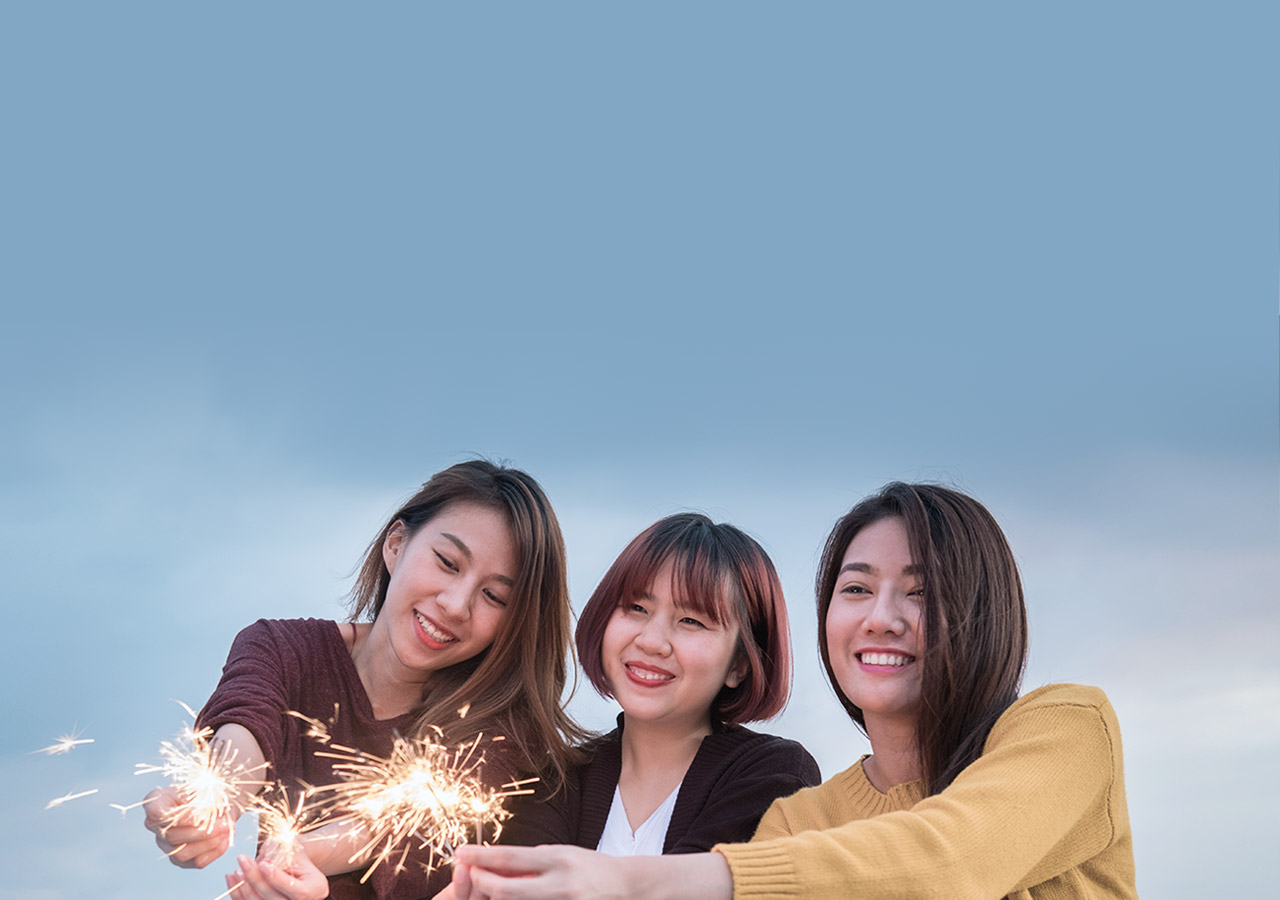
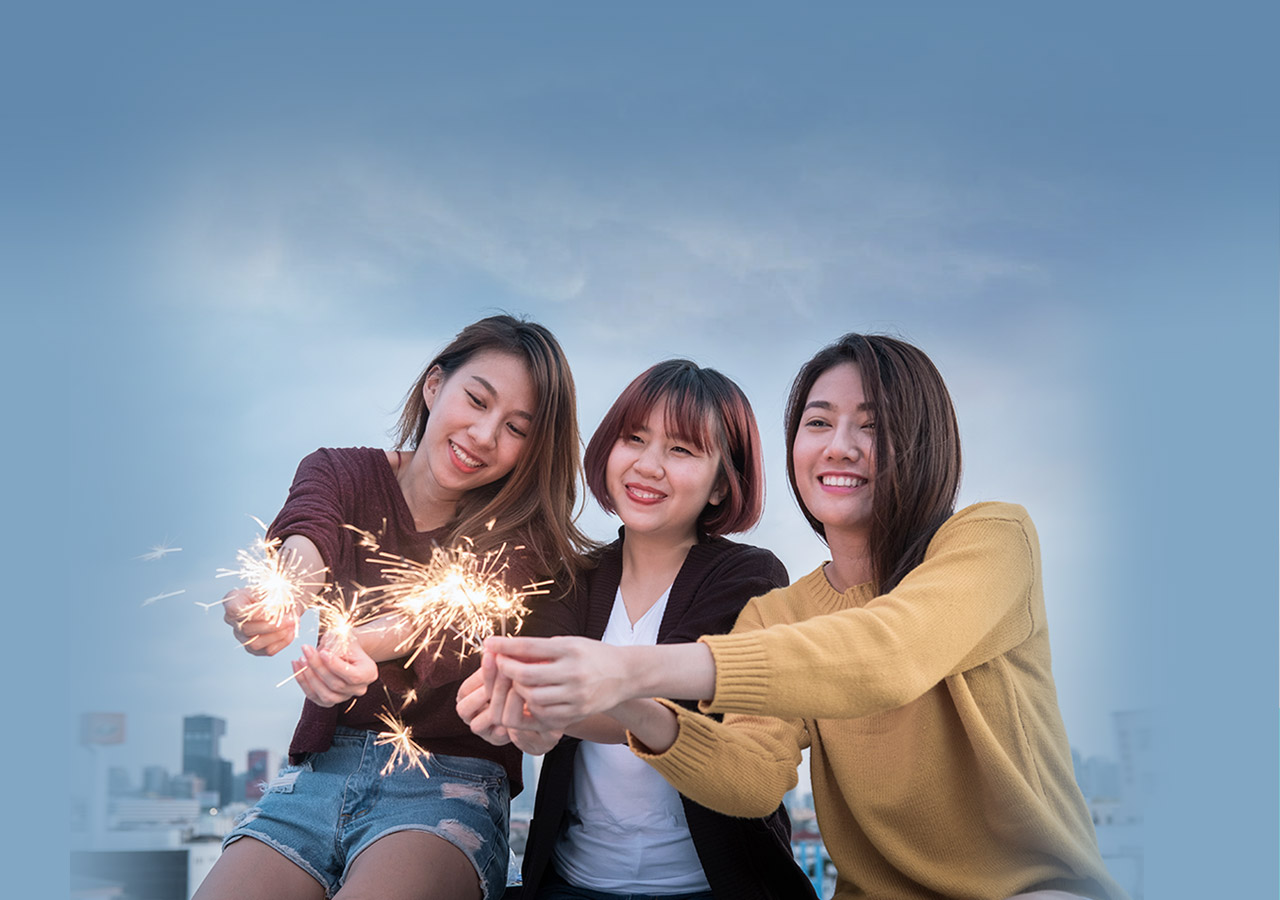
r

diff --git a/triple_perks_rewarding_events/index.html b/triple_perks_rewarding_events/index.html
@@ -55,13 +55,13 @@
 						<div data-aos="fade-up" data-aos-delay="400" data-aos-duration="2000" class="KV-header">TRIPLE PERKS <br>
 							REWARDING EVENTS. MADE HERE.</div>
 						<div data-aos="fade-up" data-aos-delay="800" data-aos-duration="2000" class="KV-header-desc">Earn rewards & get
-							more points for your next meeting or events.</div>
+							more points for your next meeting or event.</div>
 
 					</header>
 				</div>
 			</section>
 
-			<section class="component sub-header page-container--gutters" data-aos="fade-up" data-aos-duration="2000">
+			<section class="component sub-header page-container--gutters" data-aos="fade-up" data-aos-duration="2000" data-aos-offset="-400">
 				<div class="KV-subheader">REWARDING EVENTS. <span class="d-inline d-md-none"><br></span>MADE HERE.</div>
 				<div class="KV-subheader-desc">
 					<p class="mt-0">Plan an unforgettable meeting or event at participating hotels of Marriott Rewards®, <br>
@@ -87,7 +87,7 @@
 								<img src="images/icon_01.svg" alt="5% off master-billedrooms" />
 							</div>
 							<div class="component-benefits__item__content content">
-								<p class="component-item-text">5% off master-billedrooms</p>
+								<p class="component-item-text">5% off master-billed rooms</p>
 							</div>
 						</li>
 
@@ -96,7 +96,7 @@
 								<img src="images/icon_02.svg" alt="One in ten delegatesgoes free" />
 							</div>
 							<div class="component-benefits__item__content content">
-								<p class="component-item-text">One in ten delegatesgoes free</p>
+								<p class="component-item-text">One in ten delegates goes free</p>
 							</div>
 						</li>
 
@@ -105,7 +105,7 @@
 								<img src="images/icon_03.svg" alt="Triple MarriottRewards points" />
 							</div>
 							<div class="component-benefits__item__content content">
-								<p class="component-item-text">Triple MarriottRewards points</p>
+								<p class="component-item-text">Triple Marriott Rewards points</p>
 							</div>
 						</li>
 
@@ -265,7 +265,7 @@
 				<div class="page-container page-container--gutters">
 					<header class="component-container" data-aos="fade-up" data-aos-duration="2000">
 						<div class="form-title">
-							<p>Contact your local sales representative to plan your meetings / events today or<br />
+							<p>Contact your local sales representative to plan your meeting / event today or<br />
 								explore our hotel options and submit your RFP below.</p>
 						</div>
 					</header>
@@ -1084,7 +1084,7 @@ Please contact me for more details. Thank you.</textarea></div><label id="quform
 								<ul>
 									<li><a href="https://www.facebook.com/MeetingsImaginedap/" target="_blank"><img src="images/icon_facebook.png"></a></li>
 									<li><a href="https://www.linkedin.com/company/meetings_imagined" target="_blank"><img src="images/icon_linkedin.png" target="_blank"></a></li>
-									<li><a href="javascript:;" data-placement="top" data-toggle="popover" data-content="<img style='width:150px;height:150px' src='images/SPGPro_WeChatQRCode.jpg'>"><img
+									<li><a href="javascript:;" data-placement="top" data-toggle="popover" data-content="<img style='width:150px;height:150px' src='images/qr-wechat.png'>"><img
 											 src="images/icon_wechat.png" target="_blank"></a>
 									</li>
 								</ul>

diff --git a/triple_perks_rewarding_events/assets/styles/main.css b/triple_perks_rewarding_events/assets/styles/main.css
@@ -1261,8 +1261,8 @@ fieldset {
     padding-bottom: 40px;
     z-index: 0;
     position: relative;
-    min-height: 100vh;
-    height: 100vh;
+    min-height: 495px;
+    height: 495px;
 }
 
 .fixed-background-KV {
@@ -1293,8 +1293,8 @@ fieldset {
 @media (min-width:768px) {
     .page-header {
         padding-top: 65px;
-        min-height: 100vh;
-        height: 100vh;
+        min-height: calc(100vh - 300px);
+        height: calc(100vh - 300px);
     }
     .fixed-background-KV {
         background: url("../../images/KV_Marriott_triple_perks_rewarding.jpg");
@@ -1400,7 +1400,7 @@ fieldset {
 }
 
 .KV_logo {
-    padding-top: 30px;
+    padding-top: 0px;
 }
 
 @media (min-width:481px) {
